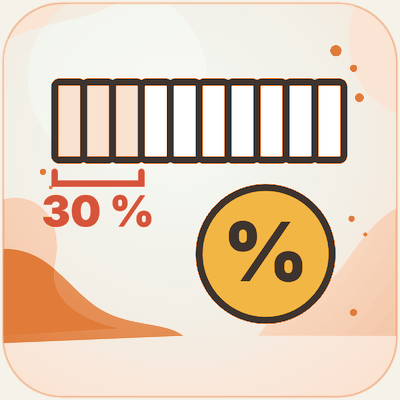
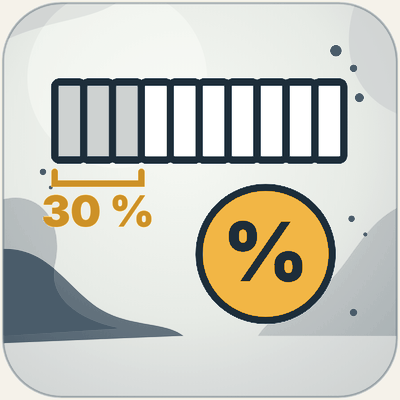
Blågrå ikoner med gula inslag
Claude-Session: https://claude.ai/code/session_01FW4pkRfwxJFFBgcHcFTAjf

diff --git a/index.html b/index.html
@@ -4,11 +4,11 @@
 <meta name="description" content="Problemlösning med blockmodellen: genomgångar steg för steg och interaktiva övningar.">
 <link rel="preconnect" href="https://fonts.googleapis.com"><link rel="preconnect" href="https://fonts.gstatic.com" crossorigin>
 <link href="https://fonts.googleapis.com/css2?family=Fraunces:opsz,wght@9..144,600;9..144,700&family=Inter:wght@400;500;600;700;800;900&display=swap" rel="stylesheet">
-<link rel="icon" href="bilder/logo.svg?v=202611212258" type="image/svg+xml">
-<link rel="stylesheet" href="stil.css?v=202611212258">
+<link rel="icon" href="bilder/logo.svg?v=202611212302" type="image/svg+xml">
+<link rel="stylesheet" href="stil.css?v=202611212302">
 <style>:root{--ink:#253745;--mid:#9BA8AB;--l:#CCD0CF;--vl:#F7F8F8;--w:#F7F8F8;--hi:#9BA8AB;--bg:#F7F8F8;--ram:#CCD0CF;--knapp:#253745;--t:#F7F8F8;--tram:#D5DADA}</style>
 <style>.logo .bmlogo{flex:none}nav a.on{font-weight:800;text-decoration:underline;text-underline-offset:6px}</style></head><body>
-<header><div class="wrap"><a class="logo" href="index.html" aria-label="Mattekompassen, Örtagårdsskolan Malmö"><img src="bilder/kompass.png?v=202611212258" alt="" style="width:46px;height:46px"><span>Mattekompassen<small>Örtagårdsskolan Malmö</small></span></a>
+<header><div class="wrap"><a class="logo" href="index.html" aria-label="Mattekompassen, Örtagårdsskolan Malmö"><img src="bilder/kompass.png?v=202611212302" alt="" style="width:46px;height:46px"><span>Mattekompassen<small>Örtagårdsskolan Malmö</small></span></a>
 <div class="hoger"><nav aria-label="Huvudmeny"><a href="index.html" class="on">Uppgifter</a><a href="trana.html" class="">Slumpade uppgifter</a></nav></div></div></header>
 
 <style>section.panel.panel{background:linear-gradient(115deg,#E3E7E7,#CCD0CF)!important;box-shadow:inset 0 0 0 2px #9BA8AB!important}section.panel.panel h1{color:#11212D!important}section.panel.panel .etikett{color:#253745!important}section.panel.panel .sti,section.panel.panel .sti a{color:#253745!important}section.panel.panel p{color:#253745!important}.kapblock,.ovkort,.np .infobox,.pi-intro div,.pi-info>div{background:linear-gradient(110deg,#F7F8F8,#E3E7E7)!important;border:2px solid #CCD0CF!important;box-shadow:none}.typ,.bg-ruta,.bt-ruta,.bm-steg li,.bm-valj a,.bm-del,.bm-tips li,.pi-omr button,.pisa .enhet,.np .ib4>div,.upg,.r6k,.r6steg div,.r6kap a:not(.forst),.ruta,.kq-lruta{background:#fff!important;border:1.5px solid #D5DADA!important;border-top:6px solid #11212D!important}.kapblock h2,.kapblock h3:first-child,.r6sek,.r6k h3,.typ b,.bm-steg b{color:#253745}.knapp{background:#253745!important;color:#fff!important}</style><style>.panel{background:#E3E7E7!important;box-shadow:inset 0 0 0 2px #9BA8AB}.panel .sti,.panel .sti a{color:#4A5C6A}.panel h1{color:var(--ink)}.panel p{color:#253745;max-width:none}</style><div class="wrap"><section class="panel" style="background:#E3E7E7"><div><h1>Blockmodellen</h1><p>15 genomgångar i naturliga tal, bråk, förhållande och procent, med PPT, PDF och en interaktiv övning till varje. Längst ner finns slumpade uppgifter att träna på.</p></div></section></div><style>
@@ -61,6 +61,6 @@
 .bm-ov a{display:inline-flex;align-items:center;gap:6px;text-decoration:none;font-weight:700;font-size:15px;border-radius:999px;padding:8px 14px;background:#E9ECEC;border:1.5px solid #9BA8AB;color:#06141B}
 .bm-ov a:hover{background:#B4BEC0}.bm-ov a.slump{background:#11212D;border-color:#11212D;color:#fff}.bm-ov a.slump:hover{background:#253745}
 @media (max-width:900px){.bm-gg{grid-template-columns:1fr 1fr}}@media (max-width:600px){.bm-gg{grid-template-columns:1fr}.bm-omr{padding:14px 14px 16px}.bm-omr-h img{width:48px;height:48px;border-radius:12px}.bm-omr-h h2{font-size:21px}}
-</style><details class="bm-tank"><summary><span>Så tänker du</span><small>8 steg för att lösa en uppgift med blockmodellen</small></summary><ol class="bm-steg"><li><b>Läs hela uppgiften</b>Vem eller vad handlar uppgiften om?</li><li><b>Rita blocket</b>Ett block för det hela, eller för den som har minst. Rita de andra utifrån det.</li><li><b>Läs en gång till</b>Skriv in det du vet: talen och delarna som står i texten.</li><li><b>Vad söker vi?</b>Skriv ett ? där svaret ska stå.</li><li><b>Hur delar vi blocket?</b>Dela i lika stora delar. Är bråket eller procenten svår att visa? Dela i mindre delar.</li><li><b>Är det något som stör?</b>En liten extra del, en rabatt eller något som flyttas. Ta bort det och ändra talet.</li><li><b>Hur mycket är en del?</b>Dela talet du vet med antalet delar. Räkna sedan ut det du söker.</li><li><b>Svara och kontrollera</b>Svara med en hel mening. Är svaret rimligt?</li></ol></details><div id="blandade"><section class="bm-omr" id="tal"><div class="bm-omr-h"><img src="bilder/bm-tal.png?v=202611212258" alt=""><div><h2>Naturliga tal</h2><small>6 genomgångar · tre uppgifter i varje</small></div></div><div class="bm-gg"><div><span>1</span><em>Pärlproblemet</em><b><a href="https://drive.google.com/file/d/17Kt0o9oEqbsKeMjQ-DYdjIm5X_vjfPCh/view" target="_blank" rel="noopener">PPT</a><a class="pdf" href="pdf/blandade-02.pdf" target="_blank" rel="noopener">PDF</a><a class="ova" href="ova.html?l=2">Öva</a></b></div><div><span>2</span><em>Ryggsäcksproblemet</em><b><a href="https://drive.google.com/file/d/1OMk2tmF8yoeLj4kfQwA310-q7Bd5yBHd/view" target="_blank" rel="noopener">PPT</a><a class="pdf" href="pdf/blandade-04.pdf" target="_blank" rel="noopener">PDF</a><a class="ova" href="ova.html?l=4">Öva</a></b></div><div><span>3</span><em>Frimärksproblemet</em><b><a href="https://drive.google.com/file/d/1pQglbcg-EiJWTSiU6Dwevq3f0ULDbgb4/view" target="_blank" rel="noopener">PPT</a><a class="pdf" href="pdf/blandade-06.pdf" target="_blank" rel="noopener">PDF</a><a class="ova" href="ova.html?l=6">Öva</a></b></div><div><span>4</span><em>Åldersproblemet</em><b><a href="https://drive.google.com/file/d/1ZTQHDT-lgQtClPZrrIG-9wtgn8gQ7DVU/view" target="_blank" rel="noopener">PPT</a><a class="pdf" href="pdf/blandade-07.pdf" target="_blank" rel="noopener">PDF</a><a class="ova" href="ova.html?l=7">Öva</a></b></div><div><span>5</span><em>Biljettproblemet</em><b><a href="https://drive.google.com/file/d/17ylnughw92XObPvDfJ11sF3EDz65QB5t/view" target="_blank" rel="noopener">PPT</a><a class="pdf" href="pdf/blandade-08.pdf" target="_blank" rel="noopener">PDF</a><a class="ova" href="ova.html?l=8">Öva</a></b></div><div><span>6</span><em>Fickpengsproblemet</em><b><a href="https://drive.google.com/file/d/1dmgQJSduHHs5-DfGUHQt99nVvsS7_g1F/view" target="_blank" rel="noopener">PPT</a><a class="pdf" href="pdf/blandade-11.pdf" target="_blank" rel="noopener">PDF</a><a class="ova" href="ova.html?l=11">Öva</a></b></div></div><div class="bm-ov"><a class="slump" href="trana.html?omr=nat">Slumpade uppgifter: naturliga tal →</a></div></section><section class="bm-omr" id="brak"><div class="bm-omr-h"><img src="bilder/bm-brak.png?v=202611212258" alt=""><div><h2>Bråk</h2><small>3 genomgångar · tre uppgifter i varje</small></div></div><div class="bm-gg"><div><span>7</span><em>Campingproblemet</em><b><a href="https://drive.google.com/file/d/1QBiYS2irVUmERhYtTl7-DSw3yshJLF4N/view" target="_blank" rel="noopener">PPT</a><a class="pdf" href="pdf/blandade-01.pdf" target="_blank" rel="noopener">PDF</a><a class="ova" href="ova.html?l=1">Öva</a></b></div><div><span>8</span><em>Veckopengsproblemet</em><b><a href="https://drive.google.com/file/d/17ZrXr9yd_D8kfU-dGLnqT9yi520G04ab/view" target="_blank" rel="noopener">PPT</a><a class="pdf" href="pdf/blandade-05.pdf" target="_blank" rel="noopener">PDF</a><a class="ova" href="ova.html?l=5">Öva</a></b></div><div><span>9</span><em>Tankproblemet</em><b><a href="https://drive.google.com/file/d/1-d3l4B1OYmZgkZfy7c7Y4uGqGxeNanFu/view" target="_blank" rel="noopener">PPT</a><a class="pdf" href="pdf/blandade-12.pdf" target="_blank" rel="noopener">PDF</a><a class="ova" href="ova.html?l=12">Öva</a></b></div></div><div class="bm-ov"><a class="slump" href="trana.html?omr=brak">Slumpade uppgifter: bråk →</a></div></section><section class="bm-omr" id="forhallande"><div class="bm-omr-h"><img src="bilder/bm-forh.png?v=202611212258" alt=""><div><h2>Förhållande</h2><small>3 genomgångar · tre uppgifter i varje</small></div></div><div class="bm-gg"><div><span>10</span><em>Klubbproblemet</em><b><a href="https://drive.google.com/file/d/17JiUn-39sepv0XO5E1zyIT4X9HXgS92O/view" target="_blank" rel="noopener">PPT</a><a class="pdf" href="pdf/blandade-09.pdf" target="_blank" rel="noopener">PDF</a><a class="ova" href="ova.html?l=9">Öva</a></b></div><div><span>11</span><em>Saftproblemet</em><b><a href="https://drive.google.com/file/d/1-pATagABDABF_cw-JGKHqhd4kZ6KdXIF/view" target="_blank" rel="noopener">PPT</a><a class="pdf" href="pdf/blandade-13.pdf" target="_blank" rel="noopener">PDF</a><a class="ova" href="ova.html?l=13">Öva</a></b></div><div><span>12</span><em>Kortbytesproblemet</em><b><a href="https://drive.google.com/file/d/1OK4lUZ8Qu8js-u6cPWZ_2feRvTf1V2MI/view" target="_blank" rel="noopener">PPT</a><a class="pdf" href="pdf/blandade-14.pdf" target="_blank" rel="noopener">PDF</a><a class="ova" href="ova.html?l=14">Öva</a></b></div></div><div class="bm-ov"><a class="slump" href="trana.html?omr=forh">Slumpade uppgifter: förhållande →</a></div></section><section class="bm-omr" id="procent"><div class="bm-omr-h"><img src="bilder/bm-procent.png?v=202611212258" alt=""><div><h2>Procent</h2><small>3 genomgångar · tre uppgifter i varje</small></div></div><div class="bm-gg"><div><span>13</span><em>Rabatt i procent</em><b><a href="https://drive.google.com/file/d/17fC4mrEaEfd_HCdVPecIEBXufxIfdrN9/view" target="_blank" rel="noopener">PPT</a><a class="pdf" href="pdf/blandade-03.pdf" target="_blank" rel="noopener">PDF</a><a class="ova" href="ova.html?l=3">Öva</a></b></div><div><span>14</span><em>Prishöjningsproblemet</em><b><a href="https://drive.google.com/file/d/1zhxnCQ7BIQ_AB1IeHZQOvBYWyJb_HOE8/view" target="_blank" rel="noopener">PPT</a><a class="pdf" href="pdf/blandade-10.pdf" target="_blank" rel="noopener">PDF</a><a class="ova" href="ova.html?l=10">Öva</a></b></div><div><span>15</span><em>Andelsproblemet</em><b><a href="https://drive.google.com/file/d/1jKR5WJxMUtUbhwYYQ98gQioMq3ddlYSh/view" target="_blank" rel="noopener">PPT</a><a class="pdf" href="pdf/blandade-15.pdf" target="_blank" rel="noopener">PDF</a><a class="ova" href="ova.html?l=15">Öva</a></b></div></div><div class="bm-ov"><a class="slump" href="trana.html?omr=proc">Slumpade uppgifter: procent →</a></div></section></div><a class="bm-slump" href="trana.html"><span class="bm-slump-t"><b>Slumpade uppgifter</b><small>Blandat från alla områden, med nya tal och namn varje gång. Lös dem steg för steg.</small></span><em>Starta →</em></a></div></section></main><style>.m6h i.eik{width:60px!important;height:60px!important}.bm-valj i.eik{width:58px!important;height:58px!important}.bm-del>i.eik{width:64px!important;height:64px!important}</style>
+</style><details class="bm-tank"><summary><span>Så tänker du</span><small>8 steg för att lösa en uppgift med blockmodellen</small></summary><ol class="bm-steg"><li><b>Läs hela uppgiften</b>Vem eller vad handlar uppgiften om?</li><li><b>Rita blocket</b>Ett block för det hela, eller för den som har minst. Rita de andra utifrån det.</li><li><b>Läs en gång till</b>Skriv in det du vet: talen och delarna som står i texten.</li><li><b>Vad söker vi?</b>Skriv ett ? där svaret ska stå.</li><li><b>Hur delar vi blocket?</b>Dela i lika stora delar. Är bråket eller procenten svår att visa? Dela i mindre delar.</li><li><b>Är det något som stör?</b>En liten extra del, en rabatt eller något som flyttas. Ta bort det och ändra talet.</li><li><b>Hur mycket är en del?</b>Dela talet du vet med antalet delar. Räkna sedan ut det du söker.</li><li><b>Svara och kontrollera</b>Svara med en hel mening. Är svaret rimligt?</li></ol></details><div id="blandade"><section class="bm-omr" id="tal"><div class="bm-omr-h"><img src="bilder/bm-tal.png?v=202611212302" alt=""><div><h2>Naturliga tal</h2><small>6 genomgångar · tre uppgifter i varje</small></div></div><div class="bm-gg"><div><span>1</span><em>Pärlproblemet</em><b><a href="https://drive.google.com/file/d/17Kt0o9oEqbsKeMjQ-DYdjIm5X_vjfPCh/view" target="_blank" rel="noopener">PPT</a><a class="pdf" href="pdf/blandade-02.pdf" target="_blank" rel="noopener">PDF</a><a class="ova" href="ova.html?l=2">Öva</a></b></div><div><span>2</span><em>Ryggsäcksproblemet</em><b><a href="https://drive.google.com/file/d/1OMk2tmF8yoeLj4kfQwA310-q7Bd5yBHd/view" target="_blank" rel="noopener">PPT</a><a class="pdf" href="pdf/blandade-04.pdf" target="_blank" rel="noopener">PDF</a><a class="ova" href="ova.html?l=4">Öva</a></b></div><div><span>3</span><em>Frimärksproblemet</em><b><a href="https://drive.google.com/file/d/1pQglbcg-EiJWTSiU6Dwevq3f0ULDbgb4/view" target="_blank" rel="noopener">PPT</a><a class="pdf" href="pdf/blandade-06.pdf" target="_blank" rel="noopener">PDF</a><a class="ova" href="ova.html?l=6">Öva</a></b></div><div><span>4</span><em>Åldersproblemet</em><b><a href="https://drive.google.com/file/d/1ZTQHDT-lgQtClPZrrIG-9wtgn8gQ7DVU/view" target="_blank" rel="noopener">PPT</a><a class="pdf" href="pdf/blandade-07.pdf" target="_blank" rel="noopener">PDF</a><a class="ova" href="ova.html?l=7">Öva</a></b></div><div><span>5</span><em>Biljettproblemet</em><b><a href="https://drive.google.com/file/d/17ylnughw92XObPvDfJ11sF3EDz65QB5t/view" target="_blank" rel="noopener">PPT</a><a class="pdf" href="pdf/blandade-08.pdf" target="_blank" rel="noopener">PDF</a><a class="ova" href="ova.html?l=8">Öva</a></b></div><div><span>6</span><em>Fickpengsproblemet</em><b><a href="https://drive.google.com/file/d/1dmgQJSduHHs5-DfGUHQt99nVvsS7_g1F/view" target="_blank" rel="noopener">PPT</a><a class="pdf" href="pdf/blandade-11.pdf" target="_blank" rel="noopener">PDF</a><a class="ova" href="ova.html?l=11">Öva</a></b></div></div><div class="bm-ov"><a class="slump" href="trana.html?omr=nat">Slumpade uppgifter: naturliga tal →</a></div></section><section class="bm-omr" id="brak"><div class="bm-omr-h"><img src="bilder/bm-brak.png?v=202611212302" alt=""><div><h2>Bråk</h2><small>3 genomgångar · tre uppgifter i varje</small></div></div><div class="bm-gg"><div><span>7</span><em>Campingproblemet</em><b><a href="https://drive.google.com/file/d/1QBiYS2irVUmERhYtTl7-DSw3yshJLF4N/view" target="_blank" rel="noopener">PPT</a><a class="pdf" href="pdf/blandade-01.pdf" target="_blank" rel="noopener">PDF</a><a class="ova" href="ova.html?l=1">Öva</a></b></div><div><span>8</span><em>Veckopengsproblemet</em><b><a href="https://drive.google.com/file/d/17ZrXr9yd_D8kfU-dGLnqT9yi520G04ab/view" target="_blank" rel="noopener">PPT</a><a class="pdf" href="pdf/blandade-05.pdf" target="_blank" rel="noopener">PDF</a><a class="ova" href="ova.html?l=5">Öva</a></b></div><div><span>9</span><em>Tankproblemet</em><b><a href="https://drive.google.com/file/d/1-d3l4B1OYmZgkZfy7c7Y4uGqGxeNanFu/view" target="_blank" rel="noopener">PPT</a><a class="pdf" href="pdf/blandade-12.pdf" target="_blank" rel="noopener">PDF</a><a class="ova" href="ova.html?l=12">Öva</a></b></div></div><div class="bm-ov"><a class="slump" href="trana.html?omr=brak">Slumpade uppgifter: bråk →</a></div></section><section class="bm-omr" id="forhallande"><div class="bm-omr-h"><img src="bilder/bm-forh.png?v=202611212302" alt=""><div><h2>Förhållande</h2><small>3 genomgångar · tre uppgifter i varje</small></div></div><div class="bm-gg"><div><span>10</span><em>Klubbproblemet</em><b><a href="https://drive.google.com/file/d/17JiUn-39sepv0XO5E1zyIT4X9HXgS92O/view" target="_blank" rel="noopener">PPT</a><a class="pdf" href="pdf/blandade-09.pdf" target="_blank" rel="noopener">PDF</a><a class="ova" href="ova.html?l=9">Öva</a></b></div><div><span>11</span><em>Saftproblemet</em><b><a href="https://drive.google.com/file/d/1-pATagABDABF_cw-JGKHqhd4kZ6KdXIF/view" target="_blank" rel="noopener">PPT</a><a class="pdf" href="pdf/blandade-13.pdf" target="_blank" rel="noopener">PDF</a><a class="ova" href="ova.html?l=13">Öva</a></b></div><div><span>12</span><em>Kortbytesproblemet</em><b><a href="https://drive.google.com/file/d/1OK4lUZ8Qu8js-u6cPWZ_2feRvTf1V2MI/view" target="_blank" rel="noopener">PPT</a><a class="pdf" href="pdf/blandade-14.pdf" target="_blank" rel="noopener">PDF</a><a class="ova" href="ova.html?l=14">Öva</a></b></div></div><div class="bm-ov"><a class="slump" href="trana.html?omr=forh">Slumpade uppgifter: förhållande →</a></div></section><section class="bm-omr" id="procent"><div class="bm-omr-h"><img src="bilder/bm-procent.png?v=202611212302" alt=""><div><h2>Procent</h2><small>3 genomgångar · tre uppgifter i varje</small></div></div><div class="bm-gg"><div><span>13</span><em>Rabatt i procent</em><b><a href="https://drive.google.com/file/d/17fC4mrEaEfd_HCdVPecIEBXufxIfdrN9/view" target="_blank" rel="noopener">PPT</a><a class="pdf" href="pdf/blandade-03.pdf" target="_blank" rel="noopener">PDF</a><a class="ova" href="ova.html?l=3">Öva</a></b></div><div><span>14</span><em>Prishöjningsproblemet</em><b><a href="https://drive.google.com/file/d/1zhxnCQ7BIQ_AB1IeHZQOvBYWyJb_HOE8/view" target="_blank" rel="noopener">PPT</a><a class="pdf" href="pdf/blandade-10.pdf" target="_blank" rel="noopener">PDF</a><a class="ova" href="ova.html?l=10">Öva</a></b></div><div><span>15</span><em>Andelsproblemet</em><b><a href="https://drive.google.com/file/d/1jKR5WJxMUtUbhwYYQ98gQioMq3ddlYSh/view" target="_blank" rel="noopener">PPT</a><a class="pdf" href="pdf/blandade-15.pdf" target="_blank" rel="noopener">PDF</a><a class="ova" href="ova.html?l=15">Öva</a></b></div></div><div class="bm-ov"><a class="slump" href="trana.html?omr=proc">Slumpade uppgifter: procent →</a></div></section></div><a class="bm-slump" href="trana.html"><span class="bm-slump-t"><b>Slumpade uppgifter</b><small>Blandat från alla områden, med nya tal och namn varje gång. Lös dem steg för steg.</small></span><em>Starta →</em></a></div></section></main><style>.m6h i.eik{width:60px!important;height:60px!important}.bm-valj i.eik{width:58px!important;height:58px!important}.bm-del>i.eik{width:64px!important;height:64px!important}</style>
 <footer><div class="wrap"><b>Blockmodellen – en del av Mattekompassen</b><span><a href="https://mattekompassen.se" style="color:inherit;font-weight:700">Till Mattekompassen: mattekompassen.se →</a></span></div></footer>
 </body></html>

diff --git a/ova.html b/ova.html
@@ -4,11 +4,11 @@
 <meta name="description" content="Interaktiv övning till genomgångarna med blockmodellen.">
 <link rel="preconnect" href="https://fonts.googleapis.com"><link rel="preconnect" href="https://fonts.gstatic.com" crossorigin>
 <link href="https://fonts.googleapis.com/css2?family=Fraunces:opsz,wght@9..144,600;9..144,700&family=Inter:wght@400;500;600;700;800;900&display=swap" rel="stylesheet">
-<link rel="icon" href="bilder/logo.svg?v=202611212258" type="image/svg+xml">
-<link rel="stylesheet" href="stil.css?v=202611212258">
+<link rel="icon" href="bilder/logo.svg?v=202611212302" type="image/svg+xml">
+<link rel="stylesheet" href="stil.css?v=202611212302">
 <style>:root{--ink:#253745;--mid:#9BA8AB;--l:#CCD0CF;--vl:#F7F8F8;--w:#F7F8F8;--hi:#9BA8AB;--bg:#F7F8F8;--ram:#CCD0CF;--knapp:#253745;--t:#F7F8F8;--tram:#D5DADA}</style>
 <style>.logo .bmlogo{flex:none}nav a.on{font-weight:800;text-decoration:underline;text-underline-offset:6px}</style></head><body>
-<header><div class="wrap"><a class="logo" href="index.html" aria-label="Mattekompassen, Örtagårdsskolan Malmö"><img src="bilder/kompass.png?v=202611212258" alt="" style="width:46px;height:46px"><span>Mattekompassen<small>Örtagårdsskolan Malmö</small></span></a>
+<header><div class="wrap"><a class="logo" href="index.html" aria-label="Mattekompassen, Örtagårdsskolan Malmö"><img src="bilder/kompass.png?v=202611212302" alt="" style="width:46px;height:46px"><span>Mattekompassen<small>Örtagårdsskolan Malmö</small></span></a>
 <div class="hoger"><nav aria-label="Huvudmeny"><a href="index.html" class="">Uppgifter</a><a href="trana.html" class="">Slumpade uppgifter</a></nav></div></div></header>
 
 <style>section.panel.panel{background:linear-gradient(115deg,#E3E7E7,#CCD0CF)!important;box-shadow:inset 0 0 0 2px #9BA8AB!important}section.panel.panel h1{color:#11212D!important}section.panel.panel .etikett{color:#253745!important}section.panel.panel .sti,section.panel.panel .sti a{color:#253745!important}section.panel.panel p{color:#253745!important}.kapblock,.ovkort,.np .infobox,.pi-intro div,.pi-info>div{background:linear-gradient(110deg,#F7F8F8,#E3E7E7)!important;border:2px solid #CCD0CF!important;box-shadow:none}.typ,.bg-ruta,.bt-ruta,.bm-steg li,.bm-valj a,.bm-del,.bm-tips li,.pi-omr button,.pisa .enhet,.np .ib4>div,.upg,.r6k,.r6steg div,.r6kap a:not(.forst),.ruta,.kq-lruta{background:#fff!important;border:1.5px solid #D5DADA!important;border-top:6px solid #11212D!important}.kapblock h2,.kapblock h3:first-child,.r6sek,.r6k h3,.typ b,.bm-steg b{color:#253745}.knapp{background:#253745!important;color:#fff!important}</style><style>.panel{background:#E3E7E7!important;box-shadow:inset 0 0 0 2px #9BA8AB}.panel .sti,.panel .sti a{color:#4A5C6A}.panel h1{color:var(--ink)}.panel p{color:#253745;max-width:none}</style><div class="wrap"><section class="panel" style="background:#E3E7E7"><div><h1><a href="index.html" style="color:inherit;text-decoration:none">Blockmodellen</a></h1><p><span class="bm-under">Öva: blandade uppgifter</span>Samma tre uppgifter som i genomgången, men med nya tal. Lös dem steg för steg med blocken.</p></div></section></div><style>
@@ -55,6 +55,6 @@
 .bmo-prog span.nu{background:#11212D;color:#fff;border-color:#11212D}.bmo-prog span.klar{background:#D9DEDE;border-color:#2E6B5E;color:#24564B}
 .bmo-allt{margin:14px 0 0;font-size:16px;font-weight:700;color:#24564B}
 </style><style>.panel p .bm-under{display:block;font-family:Inter,sans-serif;font-weight:800;font-size:22px;color:#3D4F5C;margin:0 0 6px}</style>
-<main><section><div class="wrap"><div id="bmova"></div><div style="max-width:900px;margin:22px auto 0"><a class="knapp" href="index.html#blandade">← Alla genomgångar</a></div></div></section></main><script src="js/blandade-ova.js?v=202611212258"></script><script src="js/blockmodell-ova.js?v=202611212258"></script><script>(function(){var L={"2": ["Pärlproblemet", "Naturliga tal", "tal"], "4": ["Ryggsäcksproblemet", "Naturliga tal", "tal"], "6": ["Frimärksproblemet", "Naturliga tal", "tal"], "7": ["Åldersproblemet", "Naturliga tal", "tal"], "8": ["Biljettproblemet", "Naturliga tal", "tal"], "11": ["Fickpengsproblemet", "Naturliga tal", "tal"], "1": ["Campingproblemet", "Bråk", "brak"], "5": ["Veckopengsproblemet", "Bråk", "brak"], "12": ["Tankproblemet", "Bråk", "brak"], "9": ["Klubbproblemet", "Förhållande", "forhallande"], "13": ["Saftproblemet", "Förhållande", "forhallande"], "14": ["Kortbytesproblemet", "Förhållande", "forhallande"], "3": ["Rabatt i procent", "Procent", "procent"], "10": ["Prishöjningsproblemet", "Procent", "procent"], "15": ["Andelsproblemet", "Procent", "procent"]},l=new URLSearchParams(location.search).get("l")||"1",x=L[l];if(!x)return;var u=document.querySelector(".bm-under");if(u)u.textContent="Öva: "+x[1].toLowerCase();document.title="Öva: "+x[0]+" – Blockmodellen";var k=document.querySelector("main a.knapp");if(k){k.href="index.html#"+x[2];k.textContent="← "+x[1]}})()</script><style>.m6h i.eik{width:60px!important;height:60px!important}.bm-valj i.eik{width:58px!important;height:58px!important}.bm-del>i.eik{width:64px!important;height:64px!important}</style>
+<main><section><div class="wrap"><div id="bmova"></div><div style="max-width:900px;margin:22px auto 0"><a class="knapp" href="index.html#blandade">← Alla genomgångar</a></div></div></section></main><script src="js/blandade-ova.js?v=202611212302"></script><script src="js/blockmodell-ova.js?v=202611212302"></script><script>(function(){var L={"2": ["Pärlproblemet", "Naturliga tal", "tal"], "4": ["Ryggsäcksproblemet", "Naturliga tal", "tal"], "6": ["Frimärksproblemet", "Naturliga tal", "tal"], "7": ["Åldersproblemet", "Naturliga tal", "tal"], "8": ["Biljettproblemet", "Naturliga tal", "tal"], "11": ["Fickpengsproblemet", "Naturliga tal", "tal"], "1": ["Campingproblemet", "Bråk", "brak"], "5": ["Veckopengsproblemet", "Bråk", "brak"], "12": ["Tankproblemet", "Bråk", "brak"], "9": ["Klubbproblemet", "Förhållande", "forhallande"], "13": ["Saftproblemet", "Förhållande", "forhallande"], "14": ["Kortbytesproblemet", "Förhållande", "forhallande"], "3": ["Rabatt i procent", "Procent", "procent"], "10": ["Prishöjningsproblemet", "Procent", "procent"], "15": ["Andelsproblemet", "Procent", "procent"]},l=new URLSearchParams(location.search).get("l")||"1",x=L[l];if(!x)return;var u=document.querySelector(".bm-under");if(u)u.textContent="Öva: "+x[1].toLowerCase();document.title="Öva: "+x[0]+" – Blockmodellen";var k=document.querySelector("main a.knapp");if(k){k.href="index.html#"+x[2];k.textContent="← "+x[1]}})()</script><style>.m6h i.eik{width:60px!important;height:60px!important}.bm-valj i.eik{width:58px!important;height:58px!important}.bm-del>i.eik{width:64px!important;height:64px!important}</style>
 <footer><div class="wrap"><b>Blockmodellen – en del av Mattekompassen</b><span><a href="https://mattekompassen.se" style="color:inherit;font-weight:700">Till Mattekompassen: mattekompassen.se →</a></span></div></footer>
 </body></html>

diff --git a/trana.html b/trana.html
@@ -4,11 +4,11 @@
 <meta name="description" content="Interaktiva övningar med blockmodellen, nya tal varje gång.">
 <link rel="preconnect" href="https://fonts.googleapis.com"><link rel="preconnect" href="https://fonts.gstatic.com" crossorigin>
 <link href="https://fonts.googleapis.com/css2?family=Fraunces:opsz,wght@9..144,600;9..144,700&family=Inter:wght@400;500;600;700;800;900&display=swap" rel="stylesheet">
-<link rel="icon" href="bilder/logo.svg?v=202611212258" type="image/svg+xml">
-<link rel="stylesheet" href="stil.css?v=202611212258">
+<link rel="icon" href="bilder/logo.svg?v=202611212302" type="image/svg+xml">
+<link rel="stylesheet" href="stil.css?v=202611212302">
 <style>:root{--ink:#253745;--mid:#9BA8AB;--l:#CCD0CF;--vl:#F7F8F8;--w:#F7F8F8;--hi:#9BA8AB;--bg:#F7F8F8;--ram:#CCD0CF;--knapp:#253745;--t:#F7F8F8;--tram:#D5DADA}</style>
 <style>.logo .bmlogo{flex:none}nav a.on{font-weight:800;text-decoration:underline;text-underline-offset:6px}</style></head><body>
-<header><div class="wrap"><a class="logo" href="index.html" aria-label="Mattekompassen, Örtagårdsskolan Malmö"><img src="bilder/kompass.png?v=202611212258" alt="" style="width:46px;height:46px"><span>Mattekompassen<small>Örtagårdsskolan Malmö</small></span></a>
+<header><div class="wrap"><a class="logo" href="index.html" aria-label="Mattekompassen, Örtagårdsskolan Malmö"><img src="bilder/kompass.png?v=202611212302" alt="" style="width:46px;height:46px"><span>Mattekompassen<small>Örtagårdsskolan Malmö</small></span></a>
 <div class="hoger"><nav aria-label="Huvudmeny"><a href="index.html" class="">Uppgifter</a><a href="trana.html" class="on">Slumpade uppgifter</a></nav></div></div></header>
 
 <style>section.panel.panel{background:linear-gradient(115deg,#E3E7E7,#CCD0CF)!important;box-shadow:inset 0 0 0 2px #9BA8AB!important}section.panel.panel h1{color:#11212D!important}section.panel.panel .etikett{color:#253745!important}section.panel.panel .sti,section.panel.panel .sti a{color:#253745!important}section.panel.panel p{color:#253745!important}.kapblock,.ovkort,.np .infobox,.pi-intro div,.pi-info>div{background:linear-gradient(110deg,#F7F8F8,#E3E7E7)!important;border:2px solid #CCD0CF!important;box-shadow:none}.typ,.bg-ruta,.bt-ruta,.bm-steg li,.bm-valj a,.bm-del,.bm-tips li,.pi-omr button,.pisa .enhet,.np .ib4>div,.upg,.r6k,.r6steg div,.r6kap a:not(.forst),.ruta,.kq-lruta{background:#fff!important;border:1.5px solid #D5DADA!important;border-top:6px solid #11212D!important}.kapblock h2,.kapblock h3:first-child,.r6sek,.r6k h3,.typ b,.bm-steg b{color:#253745}.knapp{background:#253745!important;color:#fff!important}</style><style>.panel{background:#E3E7E7!important;box-shadow:inset 0 0 0 2px #9BA8AB}.panel .sti,.panel .sti a{color:#4A5C6A}.panel h1{color:var(--ink)}.panel p{color:#253745;max-width:none}</style><div class="wrap"><section class="panel" style="background:#E3E7E7"><div><h1><a href="index.html" style="color:inherit;text-decoration:none">Blockmodellen</a></h1><p><span class="bm-under">Slumpade uppgifter</span>Välj ett område eller blandat. Du får en ny uppgift med nya tal varje gång och löser den steg för steg med blocken.</p></div></section></div><style>
@@ -55,6 +55,6 @@
 .bmo-prog span.nu{background:#11212D;color:#fff;border-color:#11212D}.bmo-prog span.klar{background:#D9DEDE;border-color:#2E6B5E;color:#24564B}
 .bmo-allt{margin:14px 0 0;font-size:16px;font-weight:700;color:#24564B}
 </style><style>.panel p .bm-under{display:block;font-family:Inter,sans-serif;font-weight:800;font-size:22px;color:#3D4F5C;margin:0 0 6px}</style>
-<main><section><div class="wrap"><div id="bmova"></div><div style="max-width:900px;margin:22px auto 0"><a class="knapp" href="index.html">← Till startsidan</a></div></div></section></main><script src="js/blockmodell-ova.js?v=202611212258"></script><script>(function(){var O={"nat": "naturliga tal", "brak": "bråk", "forh": "förhållande", "proc": "procent"},o=new URLSearchParams(location.search).get("omr");if(!O[o])return;var u=document.querySelector(".bm-under");if(u)u.textContent="Slumpade uppgifter: "+O[o]})()</script><style>.m6h i.eik{width:60px!important;height:60px!important}.bm-valj i.eik{width:58px!important;height:58px!important}.bm-del>i.eik{width:64px!important;height:64px!important}</style>
+<main><section><div class="wrap"><div id="bmova"></div><div style="max-width:900px;margin:22px auto 0"><a class="knapp" href="index.html">← Till startsidan</a></div></div></section></main><script src="js/blockmodell-ova.js?v=202611212302"></script><script>(function(){var O={"nat": "naturliga tal", "brak": "bråk", "forh": "förhållande", "proc": "procent"},o=new URLSearchParams(location.search).get("omr");if(!O[o])return;var u=document.querySelector(".bm-under");if(u)u.textContent="Slumpade uppgifter: "+O[o]})()</script><style>.m6h i.eik{width:60px!important;height:60px!important}.bm-valj i.eik{width:58px!important;height:58px!important}.bm-del>i.eik{width:64px!important;height:64px!important}</style>
 <footer><div class="wrap"><b>Blockmodellen – en del av Mattekompassen</b><span><a href="https://mattekompassen.se" style="color:inherit;font-weight:700">Till Mattekompassen: mattekompassen.se →</a></span></div></footer>
 </body></html>
